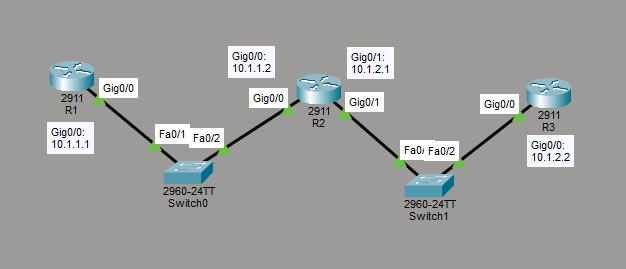
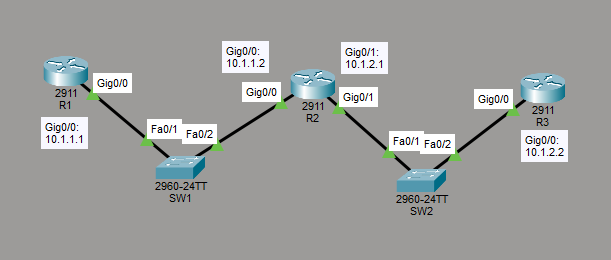
Merge pull request #55 from sagedemage/52-ipv6-address-configuration-and-verification-article
Wrote IPv6 Address Configuration and Verification Article

Pull request: Wrote IPv6 Address Configuration and Verification Article
Wrote the IPv6 Address Configuration and Verification article.

diff --git a/docs/tutorials/ipv6_address_configuration_and_verification.md b/docs/tutorials/ipv6_address_configuration_and_verification.md
@@ -1,0 +1,79 @@
+# IPv6 Address Configuration and Verification
+This is a guide to configure and verify IPv6 addressing.
+
+![IPv6 Address Configuration and Verification](../images/IPv6_Address_Configuration_and_Verification.png)
+
+List of Devices:
+- Routers:
+    - Quantity: 2
+    - Model Name: 2911
+- Multilayer Switch
+    - Quantity: 1
+    - Model Name: 3560
+
+## IPv6 Address Table for Routers
+R1:
+- Interface GigabitEthernet 0/0
+	- IPv6 Address: 2001:AAAA:BBBB::1/64
+
+R2:
+- Interface GigabitEthernet 0/0
+	- IPv6 Address: 2001:AAAA:BBBB::2/64
+
+## Configure IPv6 Addresses for the Routers
+Configure IPv6 addresses on the interfaces of the routers.
+
+Interface GigabitEthernet 0/0 on R1:
+```
+R1(config)# int Gig0/0
+R1(config-if)# ipv6 add 2001:aaaa:bbbb::1/64
+R1(config-if)# no shut
+R1(config-if)# end
+```
+
+Interface GigabitEthernet 0/0 on R2:
+```
+R2(config)# int Gig0/0
+R2(config-if)# ipv6 add 2001:aaaa:bbbb::2/64
+R2(config-if)# no shut
+R2(config-if)# end
+```
+
+## Verify IPv6 Addresses
+Verify the IPv6 addresses on the interfaces of the routers.
+
+Get a quick list of the IPv6 addresses assigned to all the interfaces on R1:
+```
+R1# show ipv6 interface brief
+```
+
+Get detailed listing of the IP related characteristics of the interface GigabitEthernet 0/0 on R1:
+```
+R1# show ipv6 interface Gig0/0
+```
+
+Get a quick list of the IPv6 addresses assigned to all the interfaces on R2:
+```
+R2# show ipv6 interface brief
+```
+
+Get detailed listing of the IP related characteristics of the interface GigabitEthernet 0/0 on R2:
+```
+R2# show ipv6 interface Gig0/0
+```
+
+## Save Router Configurations
+For each router, save the running config to the startup config.
+
+Saving config for R1:
+```
+R1#copy running-config startup-config
+```
+
+Saving config for R2:
+```
+R2#copy running-config startup-config
+```
+
+## Resources
+- [show ip interface command - Cisco](https://www.cisco.com/E-Learning/bulk/public/tac/cim/cib/using_cisco_ios_software/cmdrefs/show_ip_interface.htm)

diff --git a/docs/tutorials/ipv4_address_configuration_and_verification.md b/docs/tutorials/ipv4_address_configuration_and_verification.md
@@ -103,5 +103,23 @@ Get detailed listing of the IP related characteristics of the interface GigabitE
 R3# show ip interface Gig0/0
 ```
 
+## Save Router Configurations
+For each router, save the running config to the startup config.
+
+Saving config for R1:
+```
+R1#copy running-config startup-config
+```
+
+Saving config for R2:
+```
+R2#copy running-config startup-config
+```
+
+Saving config for R3:
+```
+R3#copy running-config startup-config
+```
+
 ## Resources
-- [show ip interface - Cisco](https://www.cisco.com/E-Learning/bulk/public/tac/cim/cib/using_cisco_ios_software/cmdrefs/show_ip_interface.htm)
+- [show ip interface command - Cisco](https://www.cisco.com/E-Learning/bulk/public/tac/cim/cib/using_cisco_ios_software/cmdrefs/show_ip_interface.htm)